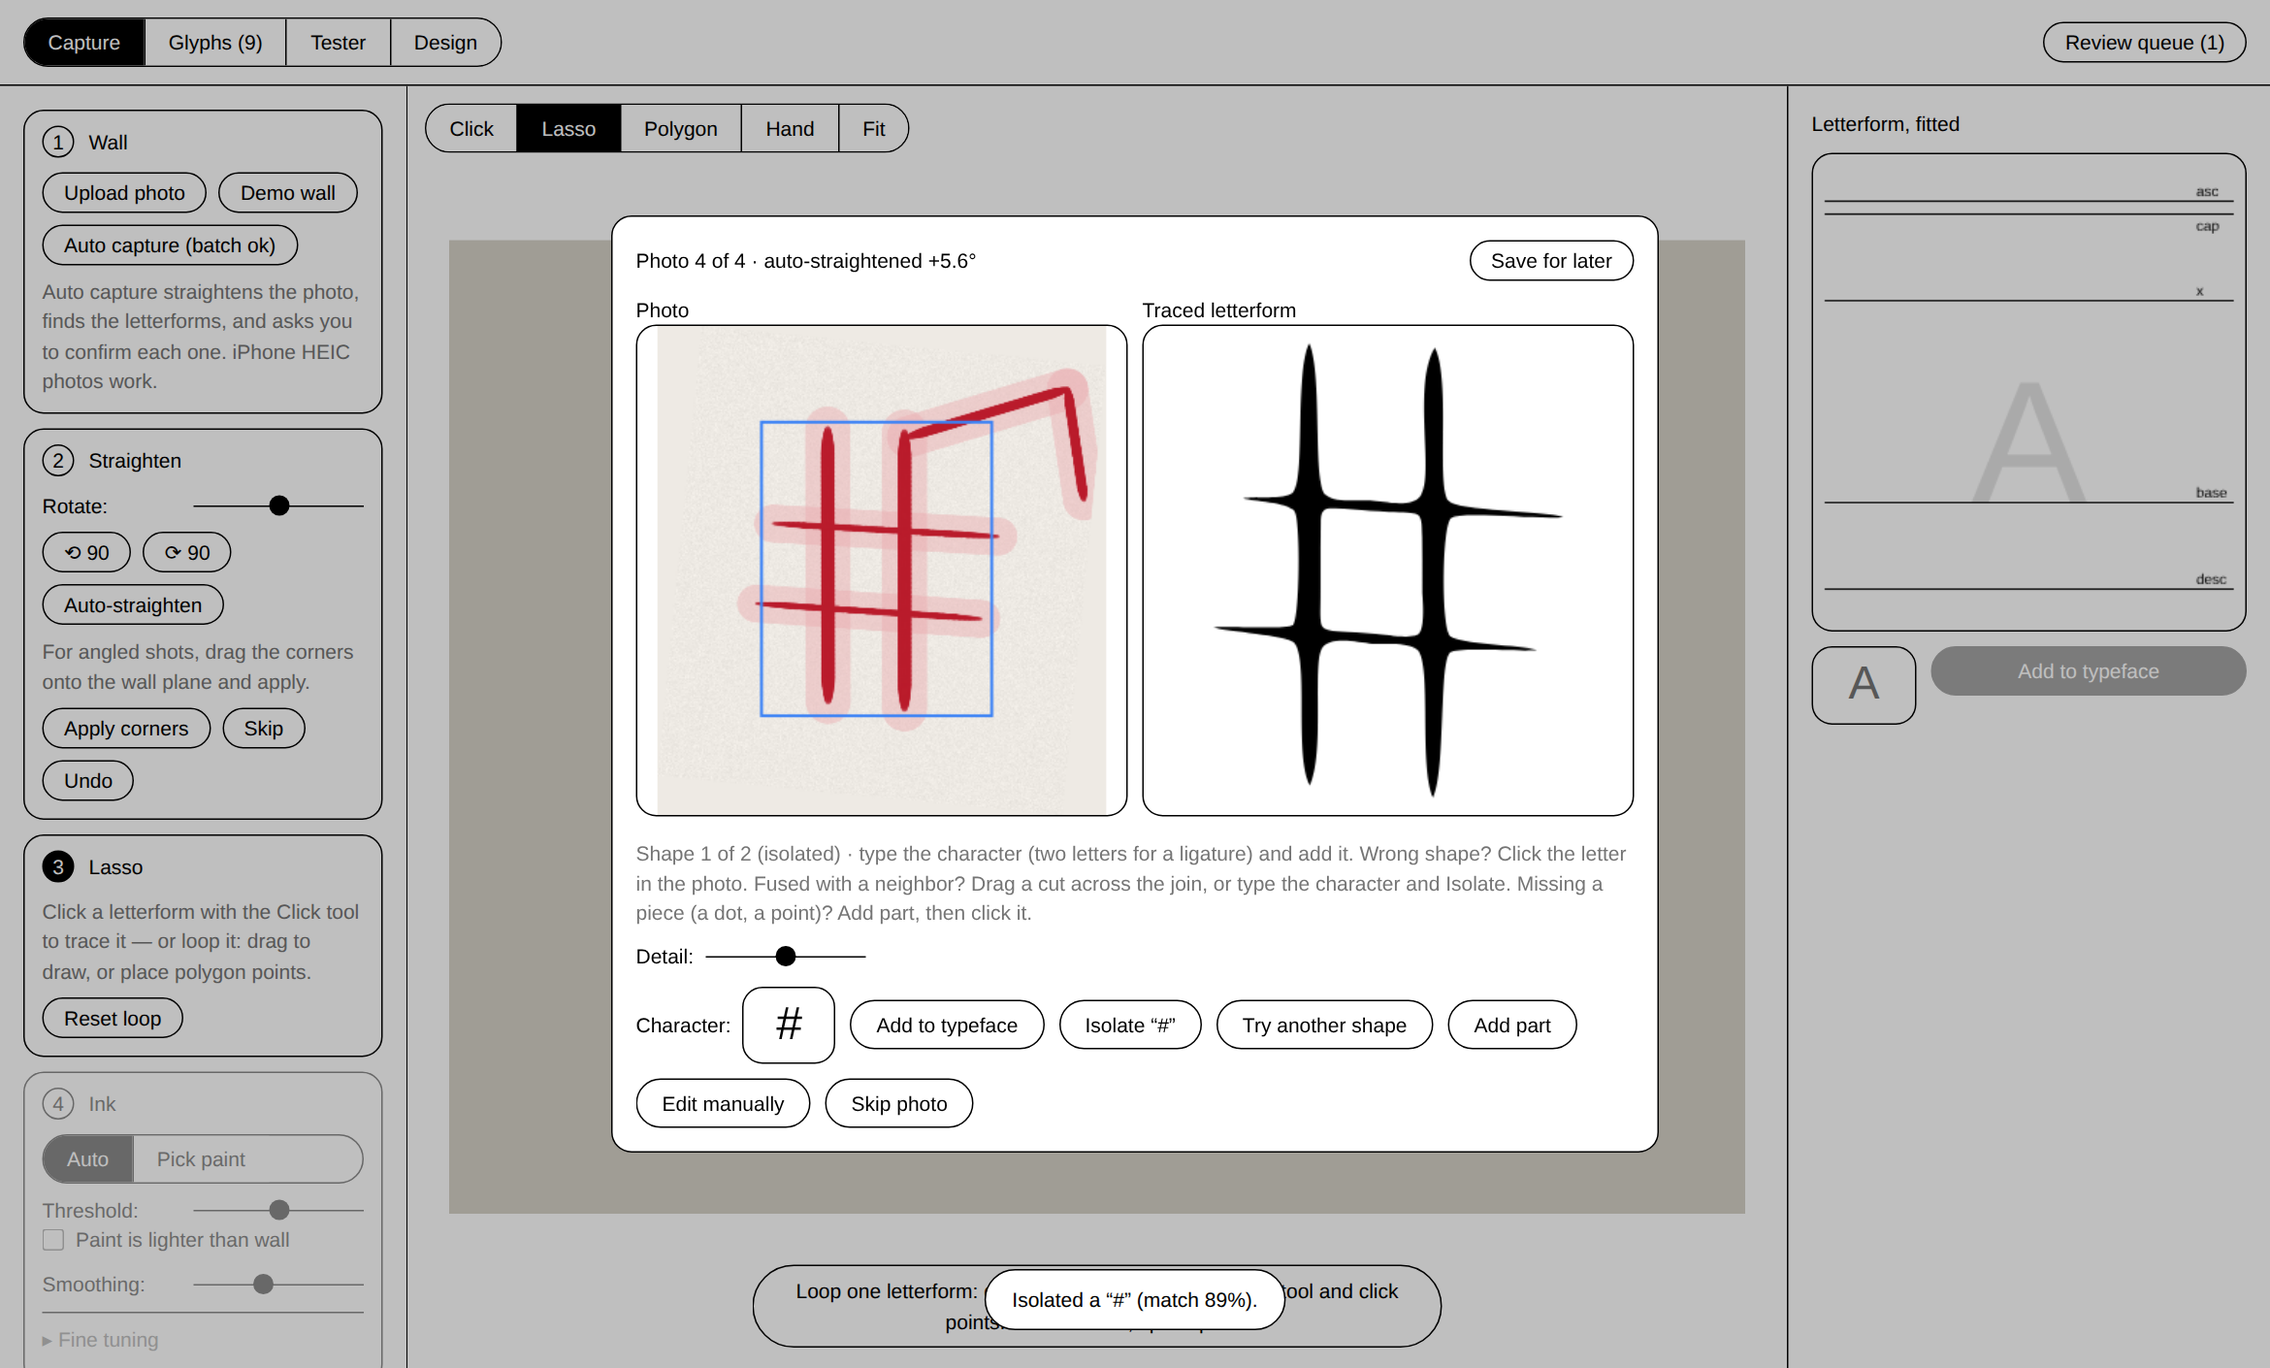
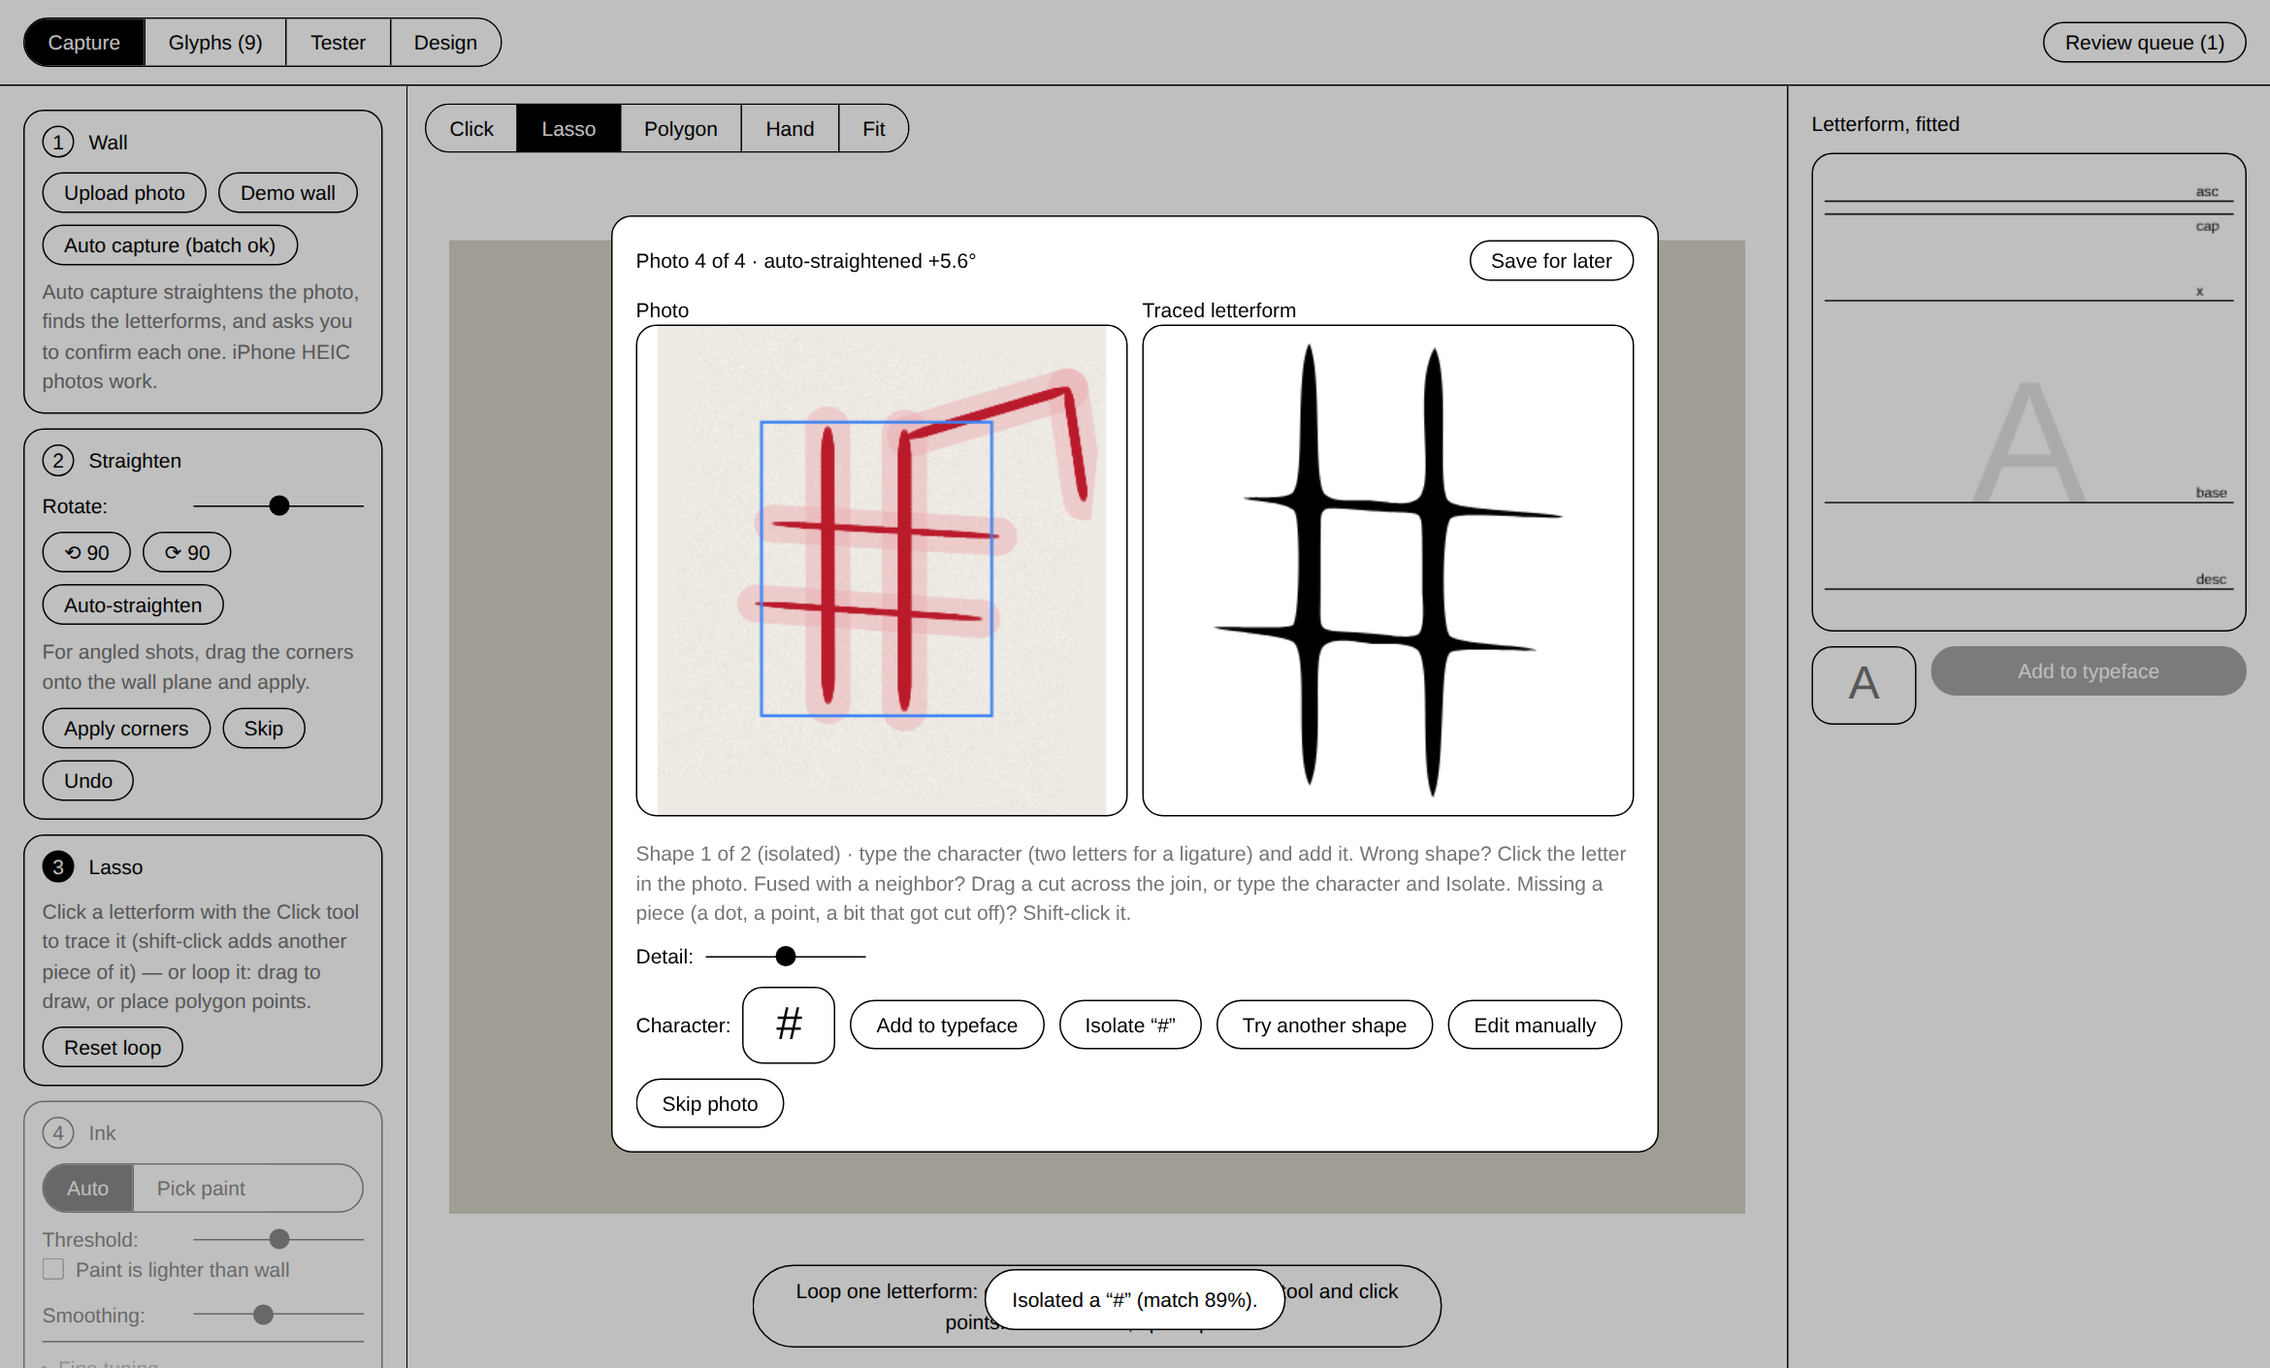
Shift-click adds a piece to the shape (replaces the Add part button)
- Review queue: shift-click a piece of the photo and only the new ink
  connected to that click joins the current shape — a detached dot or
  point, or a bit that the extraction, a cut or Isolate left out. A
  neighbor the piece touches stays out; the seam is healed with a small
  close. Shift-clicking ink already in the shape says so and changes
  nothing.
- Added pieces are remembered on the photo and put back whenever the shape
  is rebuilt: Detail changes, cuts, Undo cut and Isolate. A plain click
  starts over on the letter under it and forgets them.
- Studio: shift-click with the Click tool scans another piece into the
  same loop (the loop grows to hold both, the new paint color counts).
- The Add part button and its armed mode are gone; the hint says
  shift-click instead.
- e2e: after a cut severs the N's right stem, a real shift-click on the
  stem brings just that piece back; a shift-click on existing ink adds
  nothing; Undo cut afterwards restores the whole letter.

Claude-Session: https://claude.ai/code/session_01LpLU9S2UtvwRzH76eYZceq

diff --git a/js/ui/batch.js b/js/ui/batch.js
@@ -234,11 +234,11 @@
       $('#reviewAccept').disabled = false;
       $('#reviewIsolate').disabled = false;
       $('#reviewAlt').disabled = item.candidates.length < 2;
-      const kindNote = { separated: ' (separated from a touching neighbor)', isolated: ' (isolated)', parts: ' (two parts)' }[cand.kind] || '';
+      const kindNote = { separated: ' (separated from a touching neighbor)', isolated: ' (isolated)', parts: ' (with added pieces)' }[cand.kind] || '';
       $('#reviewHint').textContent =
         `Shape ${item.ci + 1} of ${item.candidates.length}${kindNote} · type the character (two letters for a ligature) and add it. ` +
         'Wrong shape? Click the letter in the photo. Fused with a neighbor? Drag a cut across the join, or type the character and Isolate. ' +
-        'Missing a piece (a dot, a point)? Add part, then click it.';
+        'Missing a piece (a dot, a point, a bit that got cut off)? Shift-click it.';
     }
     // draw any cuts on the photo pane
     if (item.cuts && item.cuts.length) {
@@ -263,7 +263,7 @@
   function smoothingFor(item) { return 9 - (item.detail || 5); }
   batch.smoothingFor = smoothingFor;
 
-  batch.clickTrace = function (x, y) {
+  batch.clickTrace = function (x, y, opts) {
     const item = batch.queue[batch.idx];
     if (!item) return 0;
     item.lastClick = { x, y };
@@ -273,40 +273,106 @@
       return 0;
     }
     if (res.click) item.lastClick = res.click;
-    if (batch.addPartMode) {
-      batch.addPartMode = false;
-      $('#reviewAddPart').classList.remove('on');
-      const cur = item.candidates[item.ci];
-      const part = res.candidates[res.candidates.length - 1];
-      if (cur && part) {
-        item.candidates[item.ci] = mergeCandidates(cur, part);
-        renderCurrent();
-        ST.toast('Part added to the character.');
-        return 1;
-      }
-    }
+    // a plain click starts over on the letter under it; the internal
+    // re-traces (Detail, cuts, undo) keep the shift-clicked pieces
+    if (!(opts && opts.keepParts)) item.parts = [];
     item.candidates = res.candidates.concat(item.candidates);
     item.ci = 0;
     renderCurrent();
     return res.candidates.length;
   };
 
-  // Two pieces of one character (an i and its dot, a ! and its point): one
-  // shape spanning both crops, retraced as a whole.
-  function mergeCandidates(a, b) {
-    const x0 = Math.min(a.crop.x, b.crop.x), y0 = Math.min(a.crop.y, b.crop.y);
-    const x1 = Math.max(a.crop.x + a.crop.w, b.crop.x + b.crop.w), y1 = Math.max(a.crop.y + a.crop.h, b.crop.y + b.crop.h);
+  // Shift-click: merge the paint under the click into the current shape —
+  // a detached piece (the dot of an i, the point of a !) or a bit that the
+  // extraction, a cut or Isolate left out. Only the new ink connected to
+  // the click joins; a neighbor that piece touches stays out.
+  function mergePart(cur, part, raw, snapped, sw) {
+    const x0 = Math.min(cur.crop.x, part.crop.x), y0 = Math.min(cur.crop.y, part.crop.y);
+    const x1 = Math.max(cur.crop.x + cur.crop.w, part.crop.x + part.crop.w);
+    const y1 = Math.max(cur.crop.y + cur.crop.h, part.crop.y + part.crop.h);
     const w = x1 - x0, h = y1 - y0;
-    const mask = new Uint8Array(w * h);
-    for (const c of [a, b]) {
+    const base = new Uint8Array(w * h), fresh = new Uint8Array(w * h);
+    const paint = (c, into) => {
       for (let y = 0; y < c.h; y++) {
         for (let x = 0; x < c.w; x++) {
-          if (c.mask[y * c.w + x]) mask[(y + c.crop.y - y0) * w + (x + c.crop.x - x0)] = 1;
+          if (c.mask[y * c.w + x]) into[(y + c.crop.y - y0) * w + (x + c.crop.x - x0)] = 1;
         }
       }
-    }
+    };
+    paint(cur, base);
+    paint(part, fresh);
+    for (let i = 0; i < fresh.length; i++) if (base[i]) fresh[i] = 0;
+    // the new ink nearest the click — the raw click first, then where it
+    // snapped to (the snap may have jumped onto ink already in the shape)
+    const reach = Math.max(4, Math.round(sw * 0.75));
+    const nearestFresh = (px, py) => {
+      const cx = Math.round(px) - x0, cy = Math.round(py) - y0;
+      let best = null, bestD = Infinity;
+      for (let y = Math.max(0, cy - reach); y <= Math.min(h - 1, cy + reach); y++) {
+        for (let x = Math.max(0, cx - reach); x <= Math.min(w - 1, cx + reach); x++) {
+          if (!fresh[y * w + x]) continue;
+          const d = (x - cx) ** 2 + (y - cy) ** 2;
+          if (d < bestD) { bestD = d; best = { x, y }; }
+        }
+      }
+      return best;
+    };
+    const at = nearestFresh(raw.x, raw.y) || nearestFresh(snapped.x, snapped.y);
+    if (!at) return null;
+    const piece = ST.raster.floodFrom(w, h, at.x, at.y, (i) => fresh[i] === 1);
+    if (!piece.count) return null;
+    let mask = new Uint8Array(w * h);
+    for (let i = 0; i < mask.length; i++) mask[i] = base[i] || piece.mask[i] ? 1 : 0;
+    // heal the seam where the piece meets the shape
+    const r = Math.max(1, Math.min(6, Math.round(sw * 0.3)));
+    mask = ST.raster.close(mask, w, h, r);
     const paths = ST.trace.vectorize(mask, w, h, {});
+    if (!paths.length) return null;
     return { crop: { x: x0, y: y0, w, h }, mask, w, h, paths, kind: 'parts' };
+  }
+
+  batch.addPart = function (x, y, opts) {
+    const o = opts || {};
+    const item = batch.queue[batch.idx];
+    if (!item) return 0;
+    const cur = item.candidates[item.ci];
+    if (!cur) return batch.clickTrace(x, y);
+    const res = ST.extract.seeded(item.canvas, x, y, { cuts: item.cuts || null, smoothing: smoothingFor(item) });
+    if (!res) {
+      if (!o.quiet) ST.toast('Nothing paint-like under that click — try the middle of the piece.', 'warn');
+      return 0;
+    }
+    const whole = res.candidates[res.candidates.length - 1];
+    const sw = ST.raster.strokeWidth(cur.mask, cur.w, cur.h);
+    const merged = mergePart(cur, whole, { x, y }, res.click || { x, y }, sw);
+    if (!merged) {
+      if (!o.quiet) ST.toast('That piece is already part of the shape.');
+      return 0;
+    }
+    item.candidates[item.ci] = merged;
+    if (!o.replay) {
+      item.parts = (item.parts || []).concat([{ x, y }]);
+      const keep = $('#reviewChar').value;
+      renderCurrent();
+      $('#reviewChar').value = keep;
+      syncIsolateLabel();
+      ST.toast('Piece added to the shape.');
+    }
+    return 1;
+  };
+
+  // Shift-clicked pieces are remembered, so a Detail change, a cut, an undo
+  // or an Isolate can rebuild the shape and put them back.
+  function reapplyParts(item) {
+    let n = 0;
+    for (const p of item.parts || []) n += batch.addPart(p.x, p.y, { replay: true, quiet: true });
+    if (n) {
+      const keep = $('#reviewChar').value;
+      renderCurrent();
+      $('#reviewChar').value = keep;
+      syncIsolateLabel();
+    }
+    return n;
   }
 
   // Re-extract the current photo at a new Detail setting: the automatic
@@ -321,8 +387,9 @@
     const res = ST.auto.processImage(item.canvas, { deskew: false, noUpscale: true, smoothing: smoothingFor(item) });
     item.candidates = res.candidates;
     item.ci = 0;
-    if (item.lastClick) batch.clickTrace(item.lastClick.x, item.lastClick.y);
+    if (item.lastClick) batch.clickTrace(item.lastClick.x, item.lastClick.y, { keepParts: true });
     else renderCurrent();
+    reapplyParts(item);
     $('#reviewChar').value = keep;
     syncIsolateLabel();
     if (wasIsolated && keep.trim()) batch.isolate();
@@ -371,8 +438,9 @@
     const cut = { x0, y0, x1, y1, width: cutWidthFor(item) };
     item.cuts.push(cut);
     const seed = keepSideSeed(item, cut);
-    let n = batch.clickTrace(seed.x, seed.y);
-    if (!n && item.lastClick) n = batch.clickTrace(item.lastClick.x, item.lastClick.y);
+    let n = batch.clickTrace(seed.x, seed.y, { keepParts: true });
+    if (!n && item.lastClick) n = batch.clickTrace(item.lastClick.x, item.lastClick.y, { keepParts: true });
+    reapplyParts(item);
     $('#reviewUndoCut').style.display = '';
     return n > 0;
   };
@@ -381,8 +449,10 @@
     const item = batch.queue[batch.idx];
     if (!item || !item.cuts || !item.cuts.length) return;
     item.cuts.pop();
-    if (item.lastClick) batch.clickTrace(item.lastClick.x, item.lastClick.y);
-    else renderCurrent();
+    if (item.lastClick) {
+      batch.clickTrace(item.lastClick.x, item.lastClick.y, { keepParts: true });
+      reapplyParts(item);
+    } else renderCurrent();
     if (!item.cuts.length) $('#reviewUndoCut').style.display = 'none';
   };
 
@@ -422,6 +492,7 @@
     const crop = { x: cand.crop.x + x0, y: cand.crop.y + y0, w: cw, h: chh };
     item.candidates.unshift({ crop, mask: sub, w: cw, h: chh, paths, kind: 'isolated' });
     item.ci = 0;
+    reapplyParts(item);
     const keep = $('#reviewChar').value;
     renderCurrent();
     $('#reviewChar').value = keep;
@@ -452,7 +523,7 @@
     const item = batch.queue[batch.idx];
     if (!item || e.button !== 0) return;
     const p = paneToCanvas(e);
-    paneDrag = { start: p, last: p, moved: false };
+    paneDrag = { start: p, last: p, moved: false, shift: e.shiftKey };
     $('#reviewSource').setPointerCapture(e.pointerId);
   }
 
@@ -487,7 +558,9 @@
       if (inside(d.start) || inside(d.last)) batch.addCut(d.start.x, d.start.y, d.last.x, d.last.y);
       else renderCurrent();
     } else if (inside(d.start)) {
-      batch.clickTrace(d.start.x, d.start.y);
+      // shift-click adds a piece to the shape; a plain click traces afresh
+      if (d.shift || e.shiftKey) batch.addPart(d.start.x, d.start.y);
+      else batch.clickTrace(d.start.x, d.start.y);
     }
   }
 
@@ -601,11 +674,6 @@
     $('#reviewClose').addEventListener('click', batch.close);
     $('#reviewIsolate').addEventListener('click', batch.isolate);
     $('#reviewUndoCut').addEventListener('click', batch.undoCut);
-    $('#reviewAddPart').addEventListener('click', () => {
-      batch.addPartMode = !batch.addPartMode;
-      $('#reviewAddPart').classList.toggle('on', batch.addPartMode);
-      if (batch.addPartMode) ST.toast('Now click the other piece of this character in the photo.');
-    });
     $('#reviewDetail').addEventListener('input', ST.debounce((e) => batch.setDetail(+e.target.value), 220));
     const pane = $('#reviewSource');
     pane.addEventListener('pointerdown', onPanePointerDown);

diff --git a/js/ui/capture.js b/js/ui/capture.js
@@ -772,7 +772,7 @@
     if (ev.button !== 0 || cap.step === 'flatten') return;
 
     if (cap.tool === 'click') {
-      cap.clickTrace(ip);
+      if (ev.shiftKey) cap.addPart(ip); else cap.clickTrace(ip);
       return;
     }
     if (cap.blockArmed) {
@@ -908,7 +908,7 @@
       const el = $(id);
       if (el) el.classList.toggle('on', tool === t);
     }
-    if (tool === 'click' && cap.img) setHint('Click the middle of a letterform to trace it.');
+    if (tool === 'click' && cap.img) setHint('Click the middle of a letterform to trace it. Shift-click adds another piece of it.');
   }
   cap.setTool = setTool;
 
@@ -931,6 +931,32 @@
     cap.ink.seeds = [res.seed];
     cap.ink.tol = ST.clamp(Math.round((res.tolerance - 8) / 3.4), 2, 90);
     const tolEl = $('#inkTol'); if (tolEl) tolEl.value = cap.ink.tol;
+    syncInkMode('color');
+    updateSeedChips();
+    runExtraction(false);
+    return true;
+  };
+
+  // Shift-click with the Click tool: scan another piece of the same
+  // character. The loop grows to hold both pieces and the new piece's paint
+  // color counts alongside the first.
+  cap.addPart = function (ip) {
+    if (!cap.img) return false;
+    if (cap.lasso.length < 3) return cap.clickTrace(ip);
+    const res = ST.extract.seeded(cap.img, ip.x, ip.y, { smoothing: cap.ink.smoothing });
+    if (!res) {
+      ST.toast('Nothing paint-like under that click — try the middle of the piece.', 'warn');
+      return false;
+    }
+    const b = V.bounds(cap.lasso);
+    const r = res.region;
+    const x0 = Math.min(b.x0, r.x), y0 = Math.min(b.y0, r.y);
+    const x1 = Math.max(b.x1, r.x + r.w), y1 = Math.max(b.y1, r.y + r.h);
+    cap.lasso = [{ x: x0, y: y0 }, { x: x1, y: y0 }, { x: x1, y: y1 }, { x: x0, y: y1 }];
+    cap.polyPts = null;
+    const s = res.seed;
+    const known = cap.ink.seeds.some((q) => ST.raster.colorDist(q.r, q.g, q.b, s.r, s.g, s.b) < 12);
+    if (!known) cap.ink.seeds.push(s);
     syncInkMode('color');
     updateSeedChips();
     runExtraction(false);

diff --git a/index.html b/index.html
@@ -71,7 +71,7 @@
     <div class="step" id="step-lasso">
       <div class="step-head"><span class="step-num">3</span> Lasso</div>
       <div class="step-body">
-        <p>Click a letterform with the Click tool to trace it — or loop it: drag to draw, or place polygon points.</p>
+        <p>Click a letterform with the Click tool to trace it (shift-click adds another piece of it) — or loop it: drag to draw, or place polygon points.</p>
         <div class="btn-row">
           <button class="pill sm" id="lassoReset">Reset loop</button>
         </div>
@@ -399,7 +399,6 @@
         <button class="pill primary" id="reviewAccept">Add to typeface</button>
         <button class="pill" id="reviewIsolate" title="Trim the shape to the typed character">Isolate</button>
         <button class="pill" id="reviewAlt">Try another shape</button>
-        <button class="pill" id="reviewAddPart" title="This character has another piece (the dot of an i, the point of a !): click it in the photo next">Add part</button>
         <button class="pill" id="reviewUndoCut" style="display:none">Undo cut</button>
         <button class="pill" id="reviewEdit">Edit manually</button>
         <button class="pill" id="reviewSkip">Skip photo</button>

diff --git a/README.md b/README.md
@@ -93,8 +93,12 @@ where a cut sliced a stroke flat, the sliced face is capped the same way.
 swaps it in whenever that sequence is typed (a GSUB `liga`/`rlig` lookup,
 so it also fires in Illustrator, Figma, and browsers with tracking applied).
 A character in pieces — the stem and point of a "!", an "i" and its dot —
-is assembled with **Add part**: click the other piece and both are traced as
-one glyph.
+is assembled by **shift-clicking** the other piece: only the new ink under
+that click joins the shape, so a neighbor it touches stays out. The same
+shift-click puts back a bit that the extraction, a cut or Isolate left out,
+and the pieces are remembered when the shape is rebuilt by the Detail knob,
+a cut, an undo or an Isolate. In the studio, shift-click with the Click tool
+scans another piece into the same loop.
 
 ## The optical fitting
 
